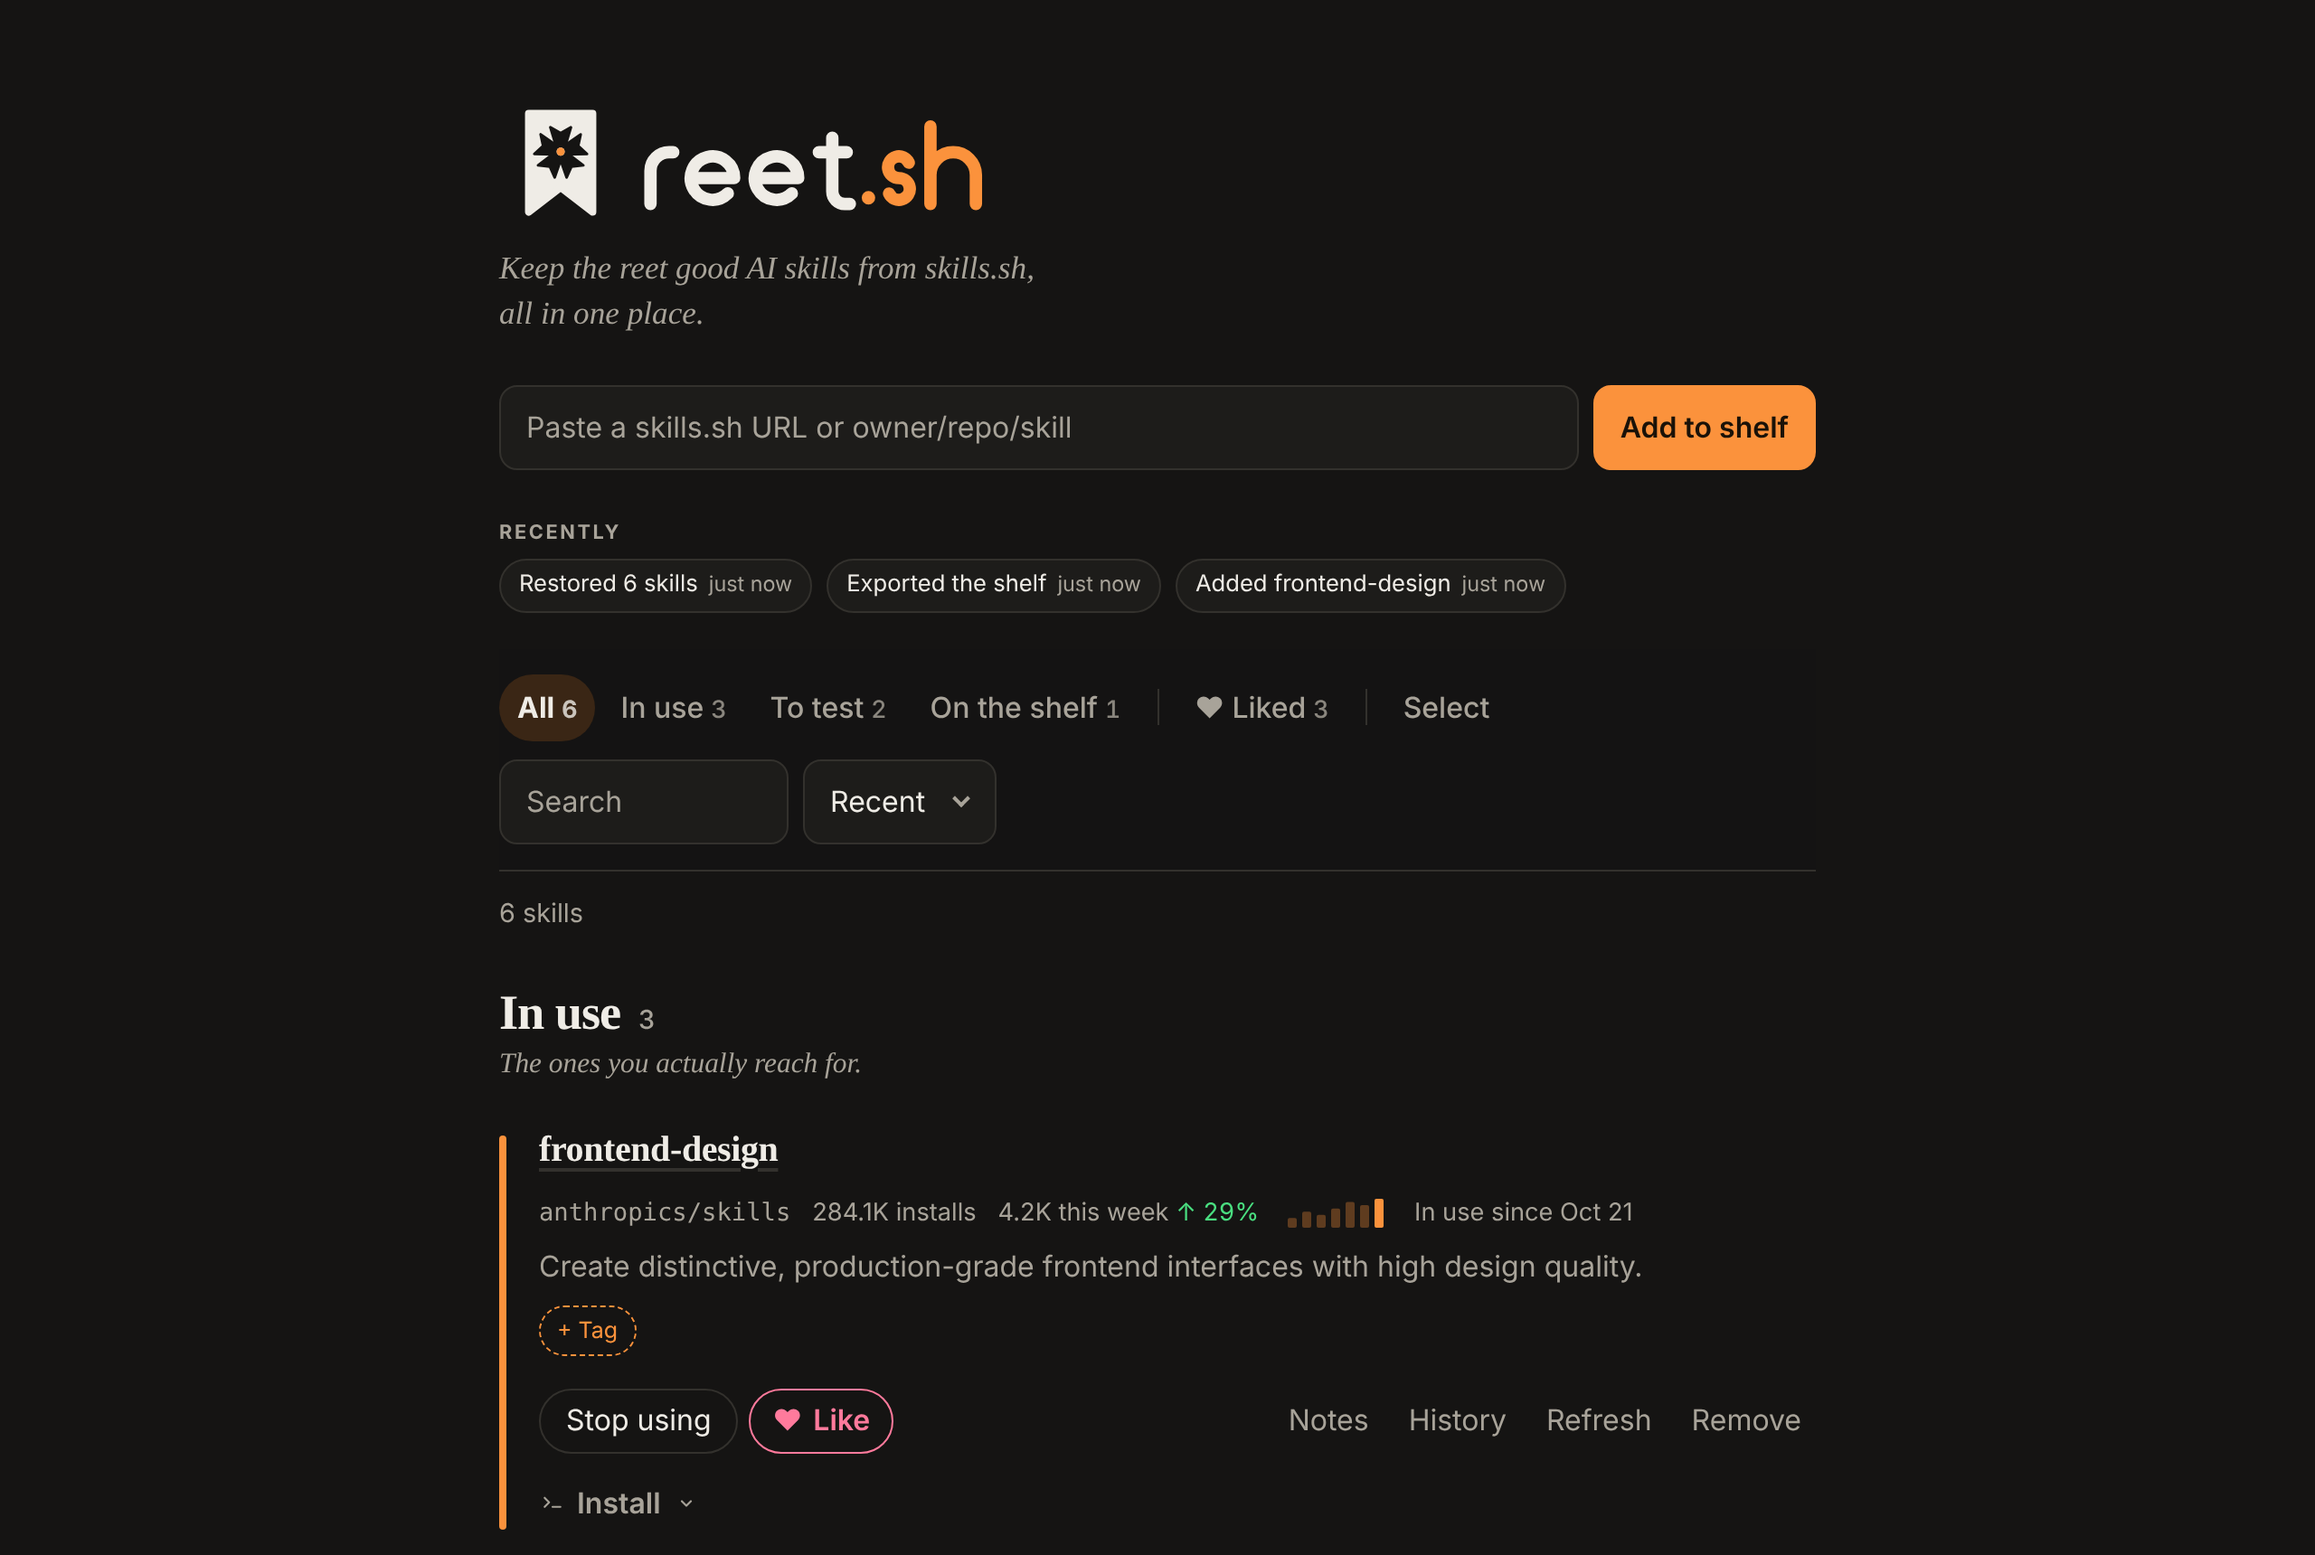
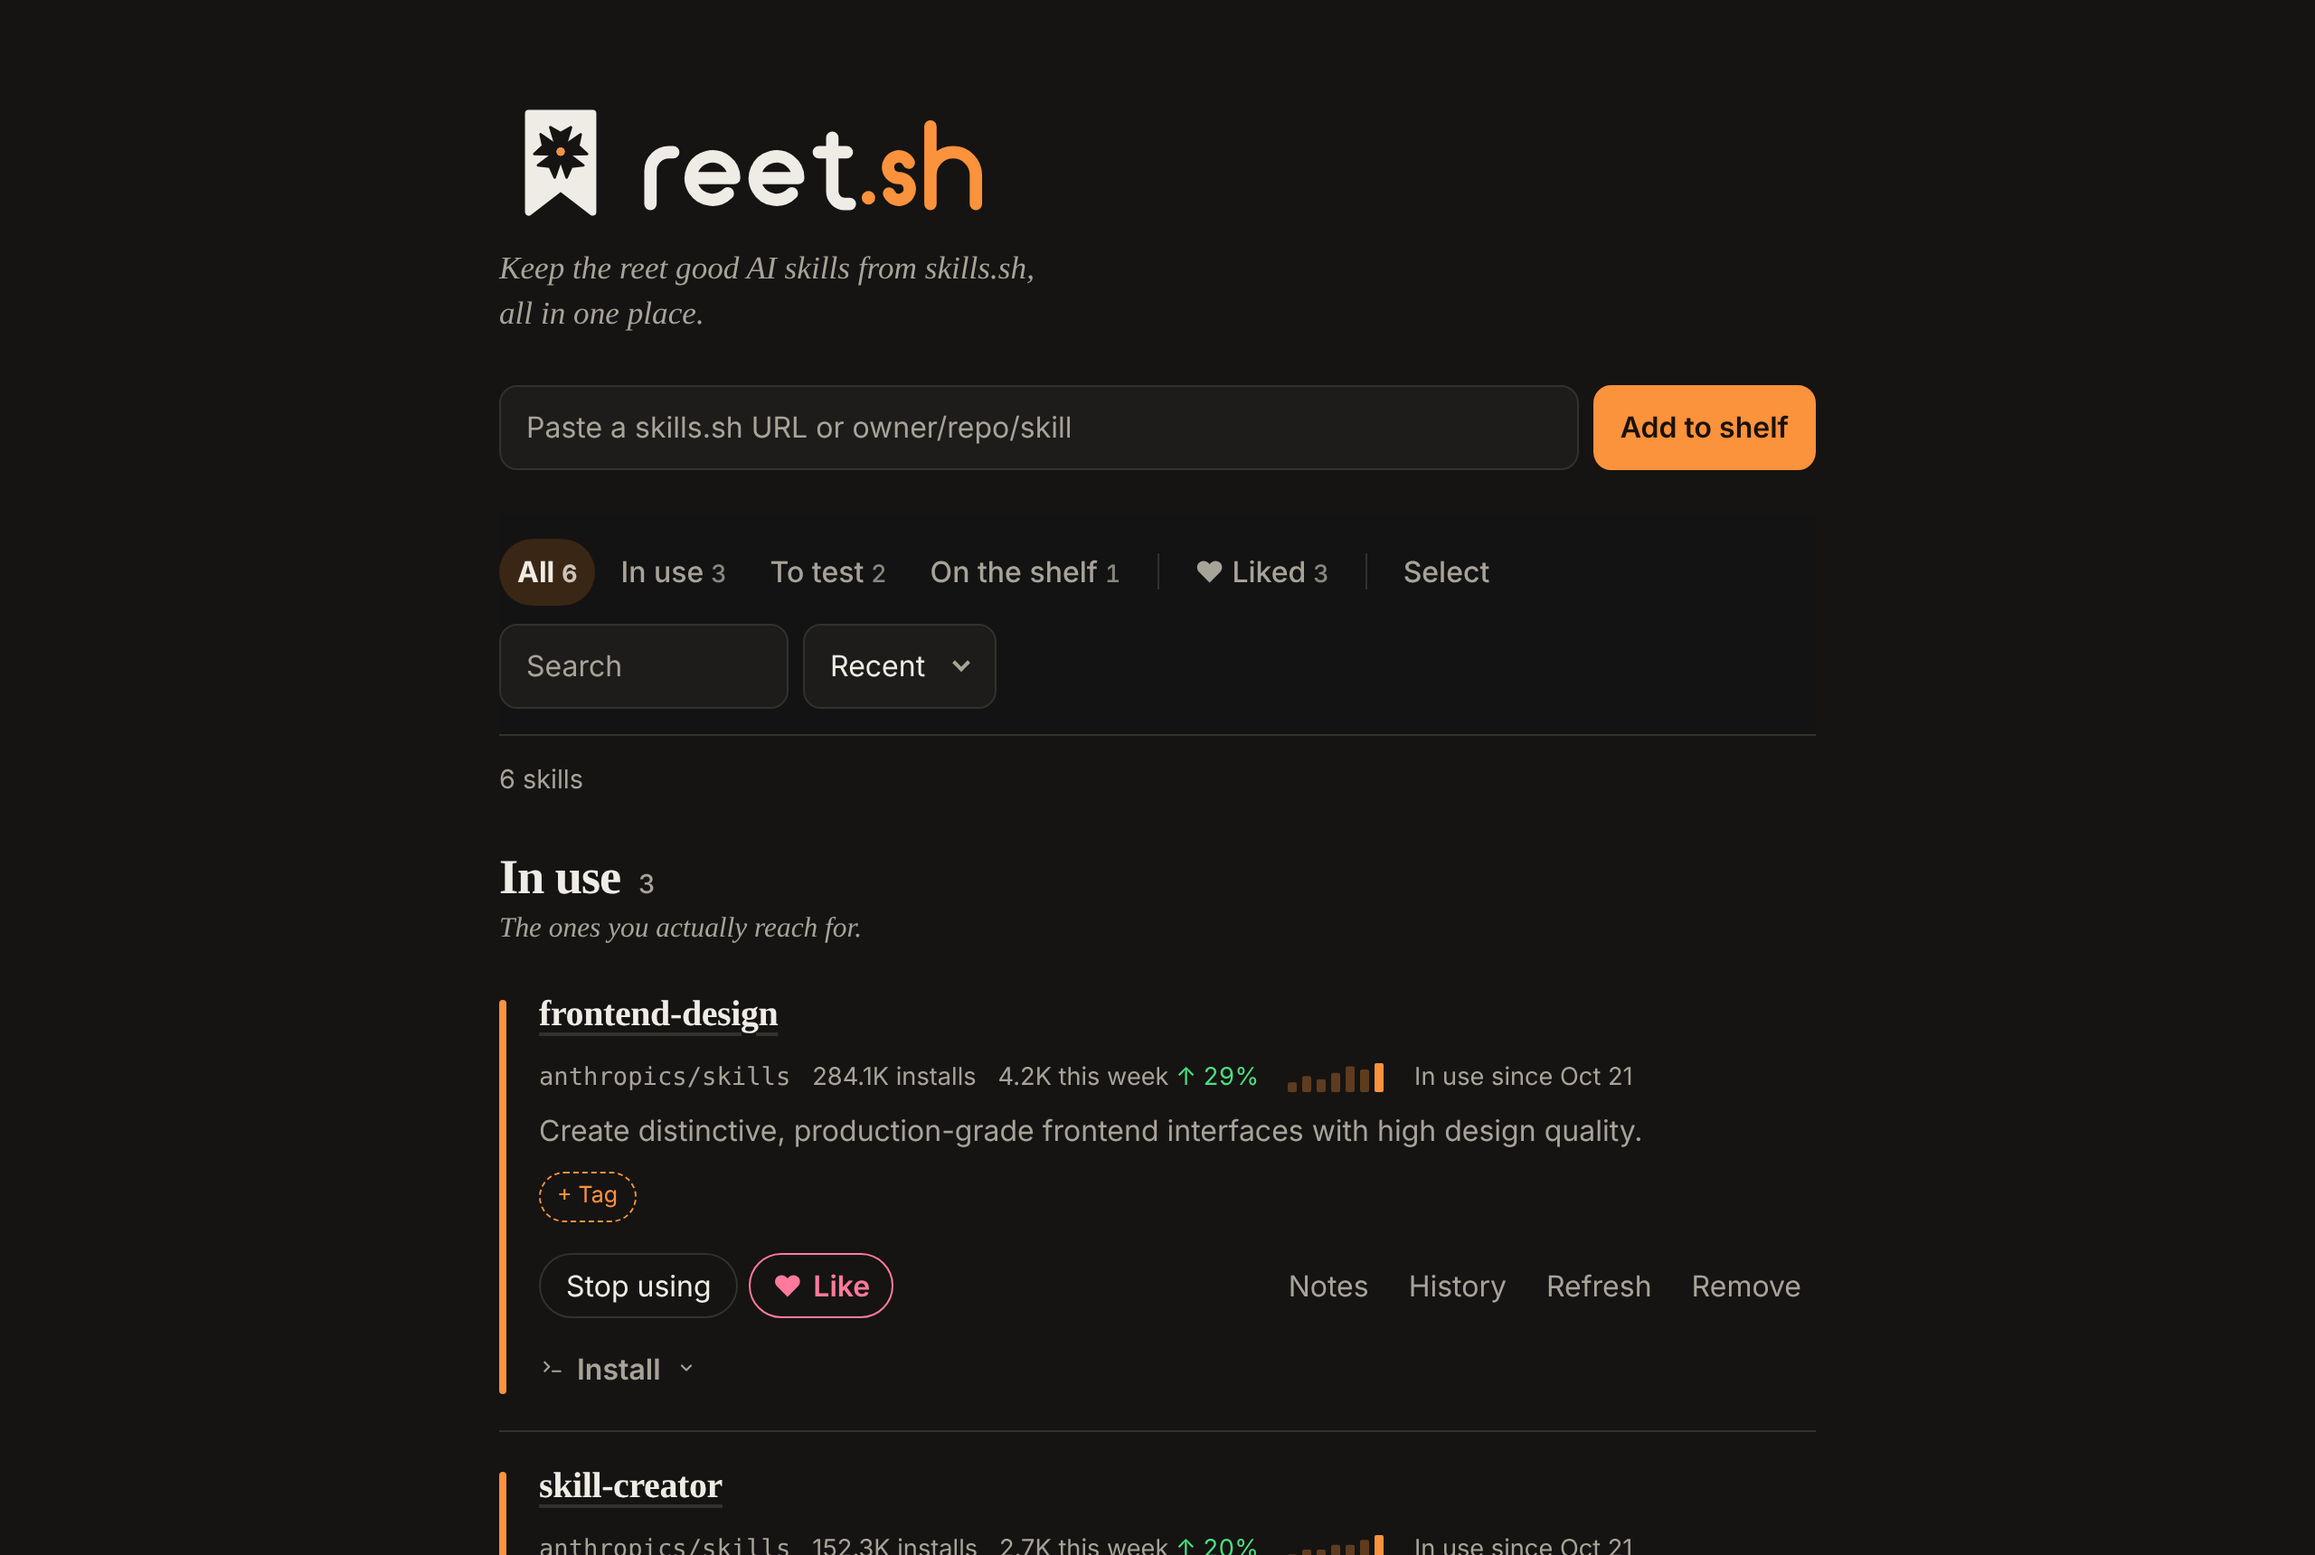
Remove the Recently strip from the main page
The activity list is still on the Admin page and in each card's History.

Claude-Session: https://claude.ai/code/session_01W7MKayRDv3VKtnU7vTi3RU

diff --git a/web/src/App.svelte b/web/src/App.svelte
@@ -13,7 +13,6 @@
   import CopyButton from './lib/CopyButton.svelte'
   import Footer from './lib/Footer.svelte'
   import Logo from './lib/Logo.svelte'
-  import Recently from './lib/Recently.svelte'
   import Setup from './lib/Setup.svelte'
   import SignIn from './lib/SignIn.svelte'
   import SkillCard from './lib/SkillCard.svelte'
@@ -48,7 +47,6 @@
   let toastId = 0
   let environments = $state<Environment[]>([])
   let allTags = $state<Tag[]>([])
-  let events = $state<Event[]>([])
   let selectedTags = $state<number[]>([])
   let selectedEnv = $state('')
   let onlyOne = $state(false)
@@ -149,10 +147,9 @@
 
   async function loadMeta(): Promise<boolean> {
     try {
-      const [envs, tags, evs] = await Promise.all([listEnvironments(), listTags(), listEvents(10)])
+      const [envs, tags] = await Promise.all([listEnvironments(), listTags()])
       environments = envs.environments
       allTags = tags.tags
-      events = evs.events
       return true
     } catch (e) {
       fail(e)
@@ -564,8 +561,6 @@
       {#if error}<p class="notice bad" role="alert">{error}</p>{/if}
       <p class="notice good" role="status" hidden={!message}>{message}</p>
     </div>
-
-    <Recently {events} />
 
     {#if counts.all > 0 || filtering}
       <div class="toolbar" role="group" aria-label="Filter and sort">
